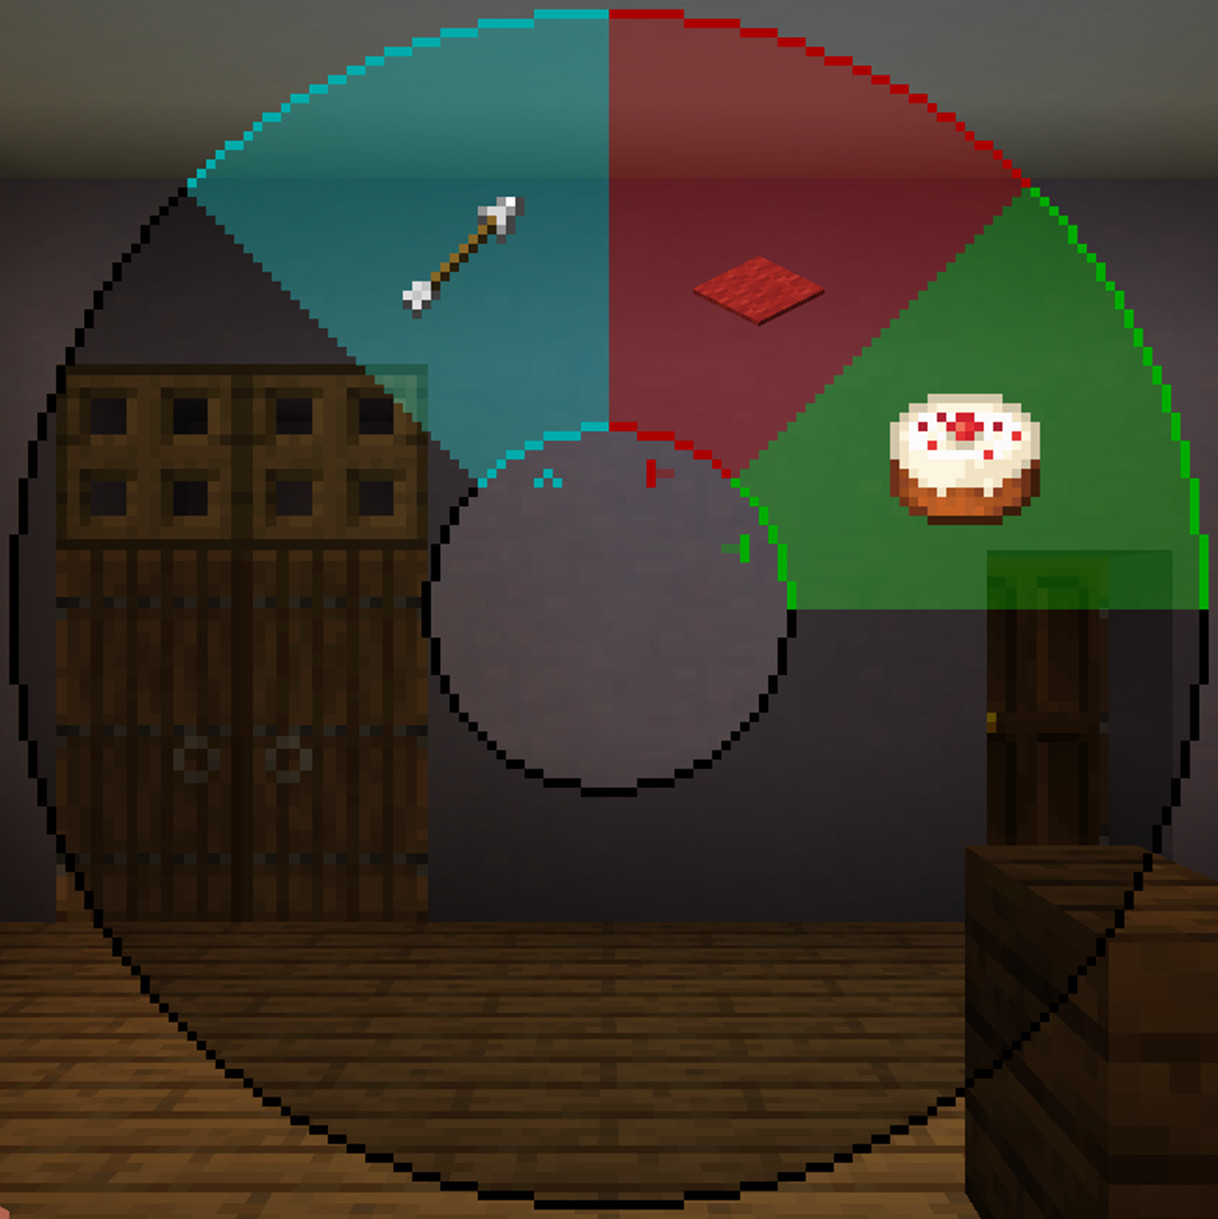
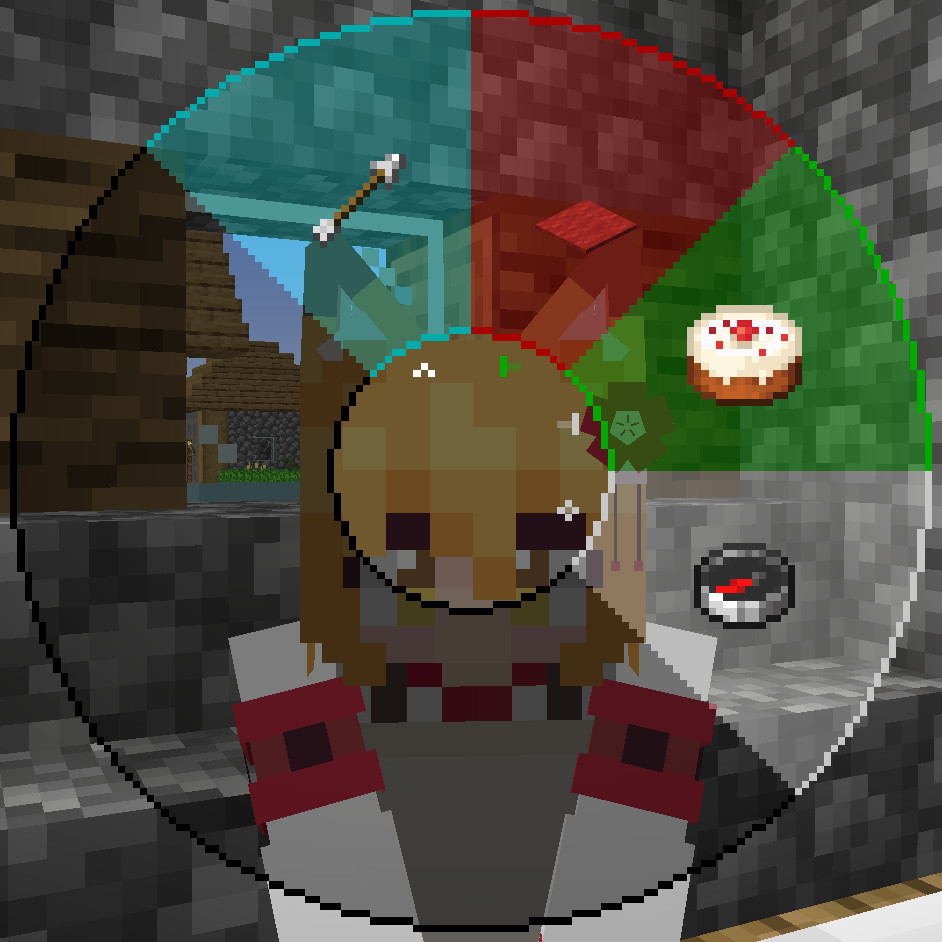
アバターのアップデート情報表示についてREADMEに追加

diff --git a/.github/README_templates/en.md b/.github/README_templates/en.md
@@ -289,6 +289,38 @@ Toggles whether she always use umbrella when she can use it even if it isn't rai
 #### Action 5-2. Toggle frequently shown messages
 Toggles whether messages which are showed frequently show or not. This setting will not affects the action wheel messages. Turn this off if you are annoyed with them.
 
+#### Action 5-3. Check for avatar updates
+Left click to check for avatar updates. You can try to check updates again even if the check fails. In addition to manually checking for updates from here, the script will automatically check for updates once a day.
+
+> [!IMPORTANT]
+> To check for avatar updates, you must turn on "Allow Networking" and add `api.github.com` to the Network Filter from Figura settings!
+
+> [!CAUTION]
+> It is DANGEROUS to use a network filter other than "Whitelist" when activating Figura's Networking Feature. Although this avatar uses secure links, there is no guarantee that links used by other players' avatars are secure. I'm not responsible for any damages caused by using this feature.
+
+> [!WARNING]
+> If you repeatedly check for updates in a short period of time, GitHub will impose a temporary restriction and avatar scripts will not be able to check for updates for a while.
+
+Right click to copy the latest avatar download link to your clipboard. Please access the download page from your browser.Please note that if you have not checked for updates once or have not checked for updates for a long period of time, you will not get the correct link.
+
+## Avatar version display
+From v1.26.0, when the action wheel is open, the version of avatar currently in use and whether it has been updated are displayed in the upper left corner of the screen.
+
+![avatar version display](../README_images/version_information.jpg)
+
+Updates are automatically checked once a day, but can also be done manually via the [action wheel](#action-5-3-check-for-avatar-updates).
+
+A notification will be sent when a new avatar version is available. You can get the download link for the latest version from the [action wheel](#action-5-3-check-for-avatar-updates), which you can access from your browser.
+
+> [!IMPORTANT]
+> To check for avatar updates, you must turn on "Allow Networking" and add `api.github.com` to the Network Filter from Figura settings!
+
+> [!CAUTION]
+> It is DANGEROUS to use a network filter other than "Whitelist" when activating Figura's Networking Feature. Although this avatar uses secure links, there is no guarantee that links used by other players' avatars are secure. I'm not responsible for any damages caused by using this feature.
+
+> [!WARNING]
+> If you repeatedly check for updates in a short period of time, GitHub will impose a temporary restriction and avatar scripts will not be able to check for updates for a while.
+
 <!-- $inject(how_to_use) -->
 
 <!-- $inject(notes) -->
